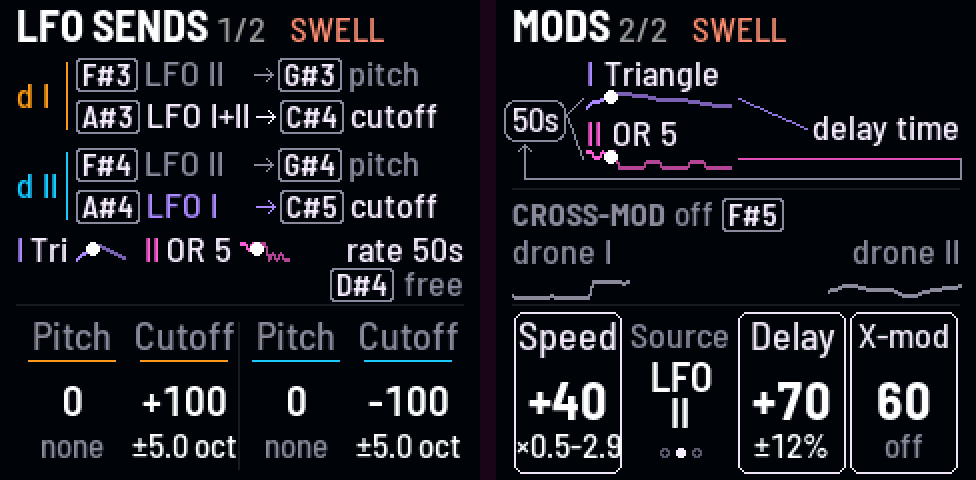
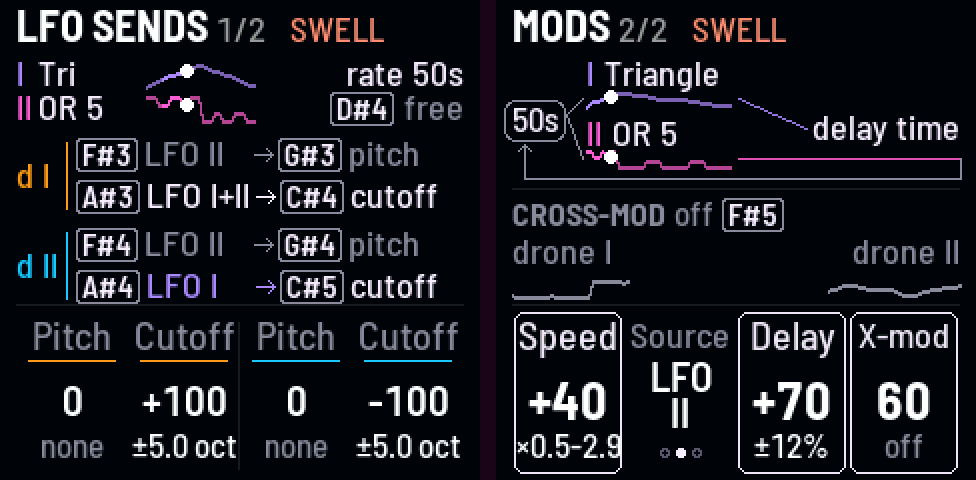
LFO sends: the LFOs above the routes, I over II, their waves 13 px tall and 54 long (Evan, 2026-11-07); the rate beside LFO I, the lock beside LFO II ("on Swell" dimmed while it waits); "mvmt 0%" in the rate's place

Changed region(s): [[0.0, 0.0938, 0.4918, 0.6562]]

diff --git a/firmware/src/app/look.c b/firmware/src/app/look.c
@@ -1259,20 +1259,21 @@ static int lk_wave_on(int route, int w)        /* a route (DR_LFO_*) takes wave 
 /* the wiring as sentences (Evan's board, 2026-11-04, "routing try 2"): each drone its two sends, each a route from its
  * key's LFO to its key's target: "[F#3] LFO II -> [G#3] x-wave", "[A#3] LFO I+II -> [C#4] reso", the keys where they
  * sit (SW_LFO), the LFO in its tint (I+II white), a route at depth 0 (or fed by an Off wave, or Movement 0) all gray.
- * Under them the two LFOs, short-named, each a little cycle with its dot (bent by Speed, as on Mods), the rate at the
- * right; under that the Swell lock's state, right-justified. Words at 18 as every page, the arrow 12 px to fit */
+ * Above them the two LFOs, short-named, each a little cycle with its dot (bent by Speed, as on Mods), the rate at the
+ * right; under that the Swell lock's state, right-justified (the waves on top, taller: Evan, 2026-11-07). Words at 18
+ * as every page, the arrow 12 px to fit */
 static const char *const LK_LFO_SHORT[2][DR_LFO_NSHAPES] = {
     {"Off", "Tri", "Sqr", "Saw", "Round", "2x Tri", "2x Exp", "4x Pat", "Rnd", "AND 3", "OR 3"},
     {"Off", "Tri 90", "Sqr 90", "Exp", "Log tri", "2x Saw", "2x Pat", "4x Exp", "Rnd", "AND 5", "OR 5"}};
 static void lk_pic_lfo(void)
 {
-    static const int32_t RY[4] = {0, 21, 45, 66};   /* the routes' tops: drone I's two, a gap, drone II's */
+    static const int32_t RY[4] = {40, 61, 85, 106};   /* the routes' tops: drone I's two, a gap, drone II's */
     const int clock = dr_ext_spb > 0.0f, lock = proj.par[P_LFO_LOCK] != 0;
-    const int32_t lb = LK_B(LK_F_SMALL), by = 88;   /* the LFOs' line */
+    const int32_t lb = LK_B(LK_F_SMALL), by = 0;    /* the LFOs' line, at the top */
     int w, d;
     char t[24], *q;
-    float phs[13];
-    const float *ph = lk_lfo_phs(phs, 13);      /* the waves bent as Speed bends the clock, as on Mods */
+    float phs[28];
+    const float *ph = lk_lfo_phs(phs, 28);      /* the waves bent as Speed bends the clock, as on Mods */
     for (d = 0; d < 4; d++) {
         const int g = d / 2, osc = d % 2 == 0;
         const int route = gpar(g, osc ? GP_OLFO : GP_FLFO), depth = gpar(g, osc ? GP_OLFO_DEPTH : GP_FLFO_DEPTH);
@@ -1297,27 +1298,35 @@ static void lk_pic_lfo(void)
             cv_rect(33, y0, 1, y1 - y0, LK_DRONE[g]);
         }
     }
-    {   /* the LFOs: "I Tri", its little cycle; "II Rnd", its; the rate at the right */
-        int32_t x = 8;
+    {   /* the LFOs, I over II: "I  Tri", its cycle, the rate at the right; "II  Rnd", its cycle, the Swell lock's state
+         * (Evan, 2026-11-03: "hold what?"). Two rows: on one, the longest names and "cycle 32 bars" ran into each other.
+         * The waves in one column (after the widest name, "2x Saw"), 13 px tall and 54 long, to x 127, short of the
+         * widest rate ("cycle 32 bars") and lock ("[D#4] on Swell"); Evan, 2026-11-07: on top, taller, longer */
+        const int32_t xw = 8 + text_w(&LK_F_SMALL, "II") + 3 + text_w(&LK_F_SMALL, "2x Saw") + 4;
         for (w = 0; w < 2; w++) {
             const int sh = proj.par[w ? P_LFO_W2 : P_LFO_W1];
-            x = cv_text(x, by, &LK_F_SMALL, w ? "II" : "I", lk_mix(0x07060Bu, LK_LFO_TINT[w], 1.0f));
-            x = cv_text(x + 3, by, &LK_F_SMALL, LK_LFO_SHORT[w][(unsigned)sh < DR_LFO_NSHAPES ? sh : 0],
-                        sh ? LK_INK : LK_LABEL);
-            lk_lfo_line(w, x + 4, by + (int32_t)LK_F_SMALL.h / 2, 4, 13, ph, 1);
-            x += 4 + 24 + 10;
+            const int32_t y = by + 17 * w;
+            cv_text(8, y, &LK_F_SMALL, w ? "II" : "I", lk_mix(0x07060Bu, LK_LFO_TINT[w], 1.0f));
+            cv_text(8 + text_w(&LK_F_SMALL, "II") + 3, y, &LK_F_SMALL,
+                    LK_LFO_SHORT[w][(unsigned)sh < DR_LFO_NSHAPES ? sh : 0], sh ? LK_INK : LK_LABEL);
+            lk_lfo_line(w, xw, y + (int32_t)LK_F_SMALL.h / 2, 6, 28, ph, 1);
         }
-        q = scopy(t, clock ? "cycle " : "rate ");
-        dr_param_text(clock ? P_LFO_DIV : P_LFO_RATE, proj.par[clock ? P_LFO_DIV : P_LFO_RATE], q);
-        cv_text(232 - text_w(&LK_F_SMALL, t), by, &LK_F_SMALL, t, LK_INK);
+        if (!proj.par[P_MOVE]) {               /* why every route is gray: ALGORITHM's Movement at 0; in the rate's
+                                                * place, which isn't heard while nothing moves (Evan, 2026-11-04) */
+            cv_text(232 - text_w(&LK_F_SMALL, "mvmt 0%"), by, &LK_F_SMALL, "mvmt 0%", LK_VIOLET);   /* short, so the
+                                                * waves can be long (Evan, 2026-11-07) */
+        } else {
+            q = scopy(t, clock ? "cycle " : "rate ");
+            dr_param_text(clock ? P_LFO_DIV : P_LFO_RATE, proj.par[clock ? P_LFO_DIV : P_LFO_RATE], q);
+            cv_text(232 - text_w(&LK_F_SMALL, t), by, &LK_F_SMALL, t, LK_INK);
+        }
     }
-    {   /* the Swell lock's state (Evan, 2026-11-03: "hold what?"), right-justified under the rate */
-        const char *lt = !lock ? "[D#4] free" : proj.par[P_PULSE] ? "[D#4] on Swell" : "[D#4] waits Swell";
-        lk_ktext(232 - lk_ktext_w(&LK_F_SMALL, lt), by + 17, &LK_F_SMALL, lt, lock ? LK_CORAL : LK_LABEL);
+    {
+        /* locked with the Swell off, it waits for it: "on Swell" dimmed ("waits Swell" ran into the waves) */
+        const char *lt = lock ? "[D#4] on Swell" : "[D#4] free";
+        lk_ktext(232 - lk_ktext_w(&LK_F_SMALL, lt), by + 17, &LK_F_SMALL, lt,
+                 !lock ? LK_LABEL : proj.par[P_PULSE] ? LK_CORAL : lk_mix(0x07060Bu, 0xFF8F73u, 0.55f));
     }
-    if (!proj.par[P_MOVE])                     /* why every route is gray: ALGORITHM's Movement at 0 (in empty space at
-                                                * the left of the lock's line, so nothing moves; Evan, 2026-11-04) */
-        cv_text(8, by + 17, &LK_F_SMALL, "movement 0%", LK_VIOLET);
 }
 
 /* ------------------------------------------------------- Mods' picture --- */

diff --git a/README.md b/README.md
@@ -354,10 +354,10 @@ pink specks are as many as Color says.
   X-Wave with black key 2 / 7 on the LFO pages; Cutoff, or Reso with key 4 / 9. Under each value, how far it swings
   in what you hear ("±12c", "±3.6 oct"), with the Movement. The picture is the wiring, each drone's two sends as a
   sentence with its keys: "[F#3] LFO II → [G#3] x-wave" (F#3 picks the LFO, G#3 what it moves), "[A#3] LFO I+II →
-  [C#4] reso"; a send at 0 (or fed only by an LFO that's off) is gray. Under them the two LFOs, each a little cycle
-  with its dot (bent by Speed mod, as on Mods), the rate, and the Swell lock (D#4, held to switch): free, on Swell (the
-  LFO starts over each Swell bar) or waits Swell (locked, the Swell stopped). The delay's send is on Mods, with its
-  knob.
+  [C#4] reso"; a send at 0 (or fed only by an LFO that's off) is gray. Above them the two LFOs, I over II, each a
+  cycle with its dot (bent by Speed mod, as on Mods), the rate, and the Swell lock (D#4, held to switch): free, or on
+  Swell (the LFO starts over each Swell bar; dim while the Swell is stopped, waiting for it). "mvmt 0%" in the rate's
+  place: ALGORITHM's Movement is at 0, so nothing moves. The delay's send is on Mods, with its knob.
 - **Mods**, the LFO moving other things, and cross-mod's amount:
   - **Speed mod** ("Speed" on the knob): the LFO speeds up and slows down on one of its own waves (up to 3 octaves either way).
   - **Source**: which LFO does that (I, II or both).

diff --git a/docs/decisions.md b/docs/decisions.md
@@ -587,3 +587,7 @@ at the end. The current state is in the [README](../README.md) and the code.
   the rate, the Swell lock; "movement 0%" when Movement grays every route. The same keys on both LFO pages; no banner
   for a key whose change the page shows (the routes on LFO sends, the delay's LFO and cross-mod on Mods). The key
   order stays (D#4 the reset between the drones).
+- 2026-11-07: LFO sends: the LFOs above the routes, I over II (on one row the longest names ran into the rate), their
+  waves in one column, 13 px tall and 54 long (were 9 and 24); the rate right of LFO I, the lock right of LFO II;
+  locked with the Swell stopped, "on Swell" dimmed (was "waits Swell", too wide beside the waves); "mvmt 0%" in the
+  rate's place when Movement is 0 (the rate isn't heard then).
